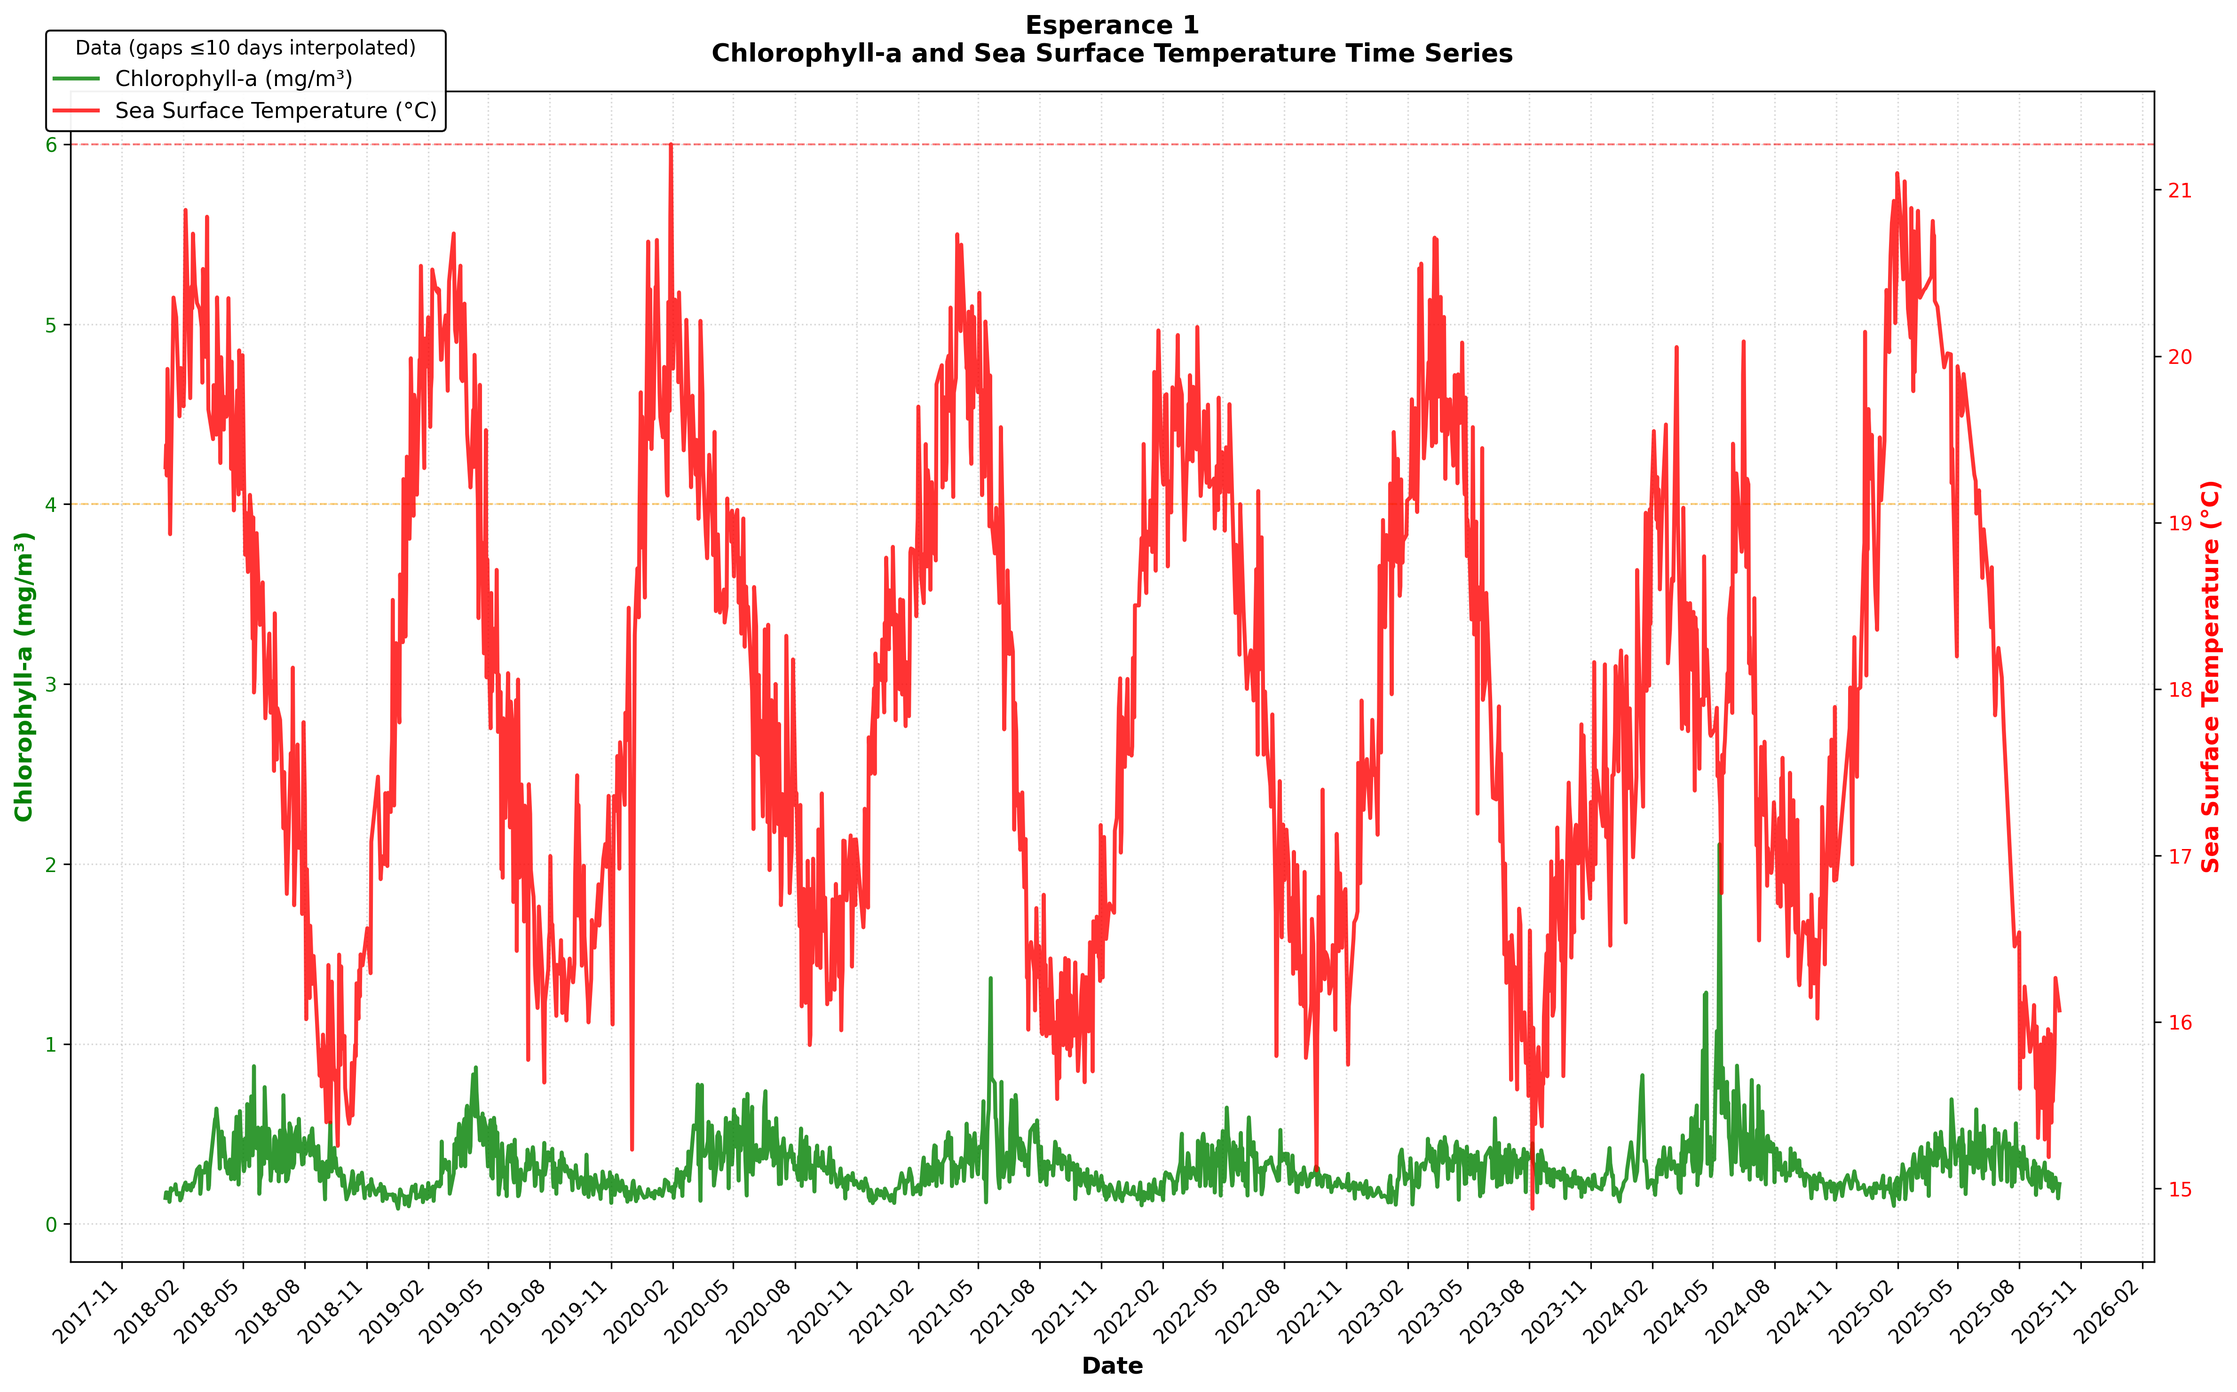
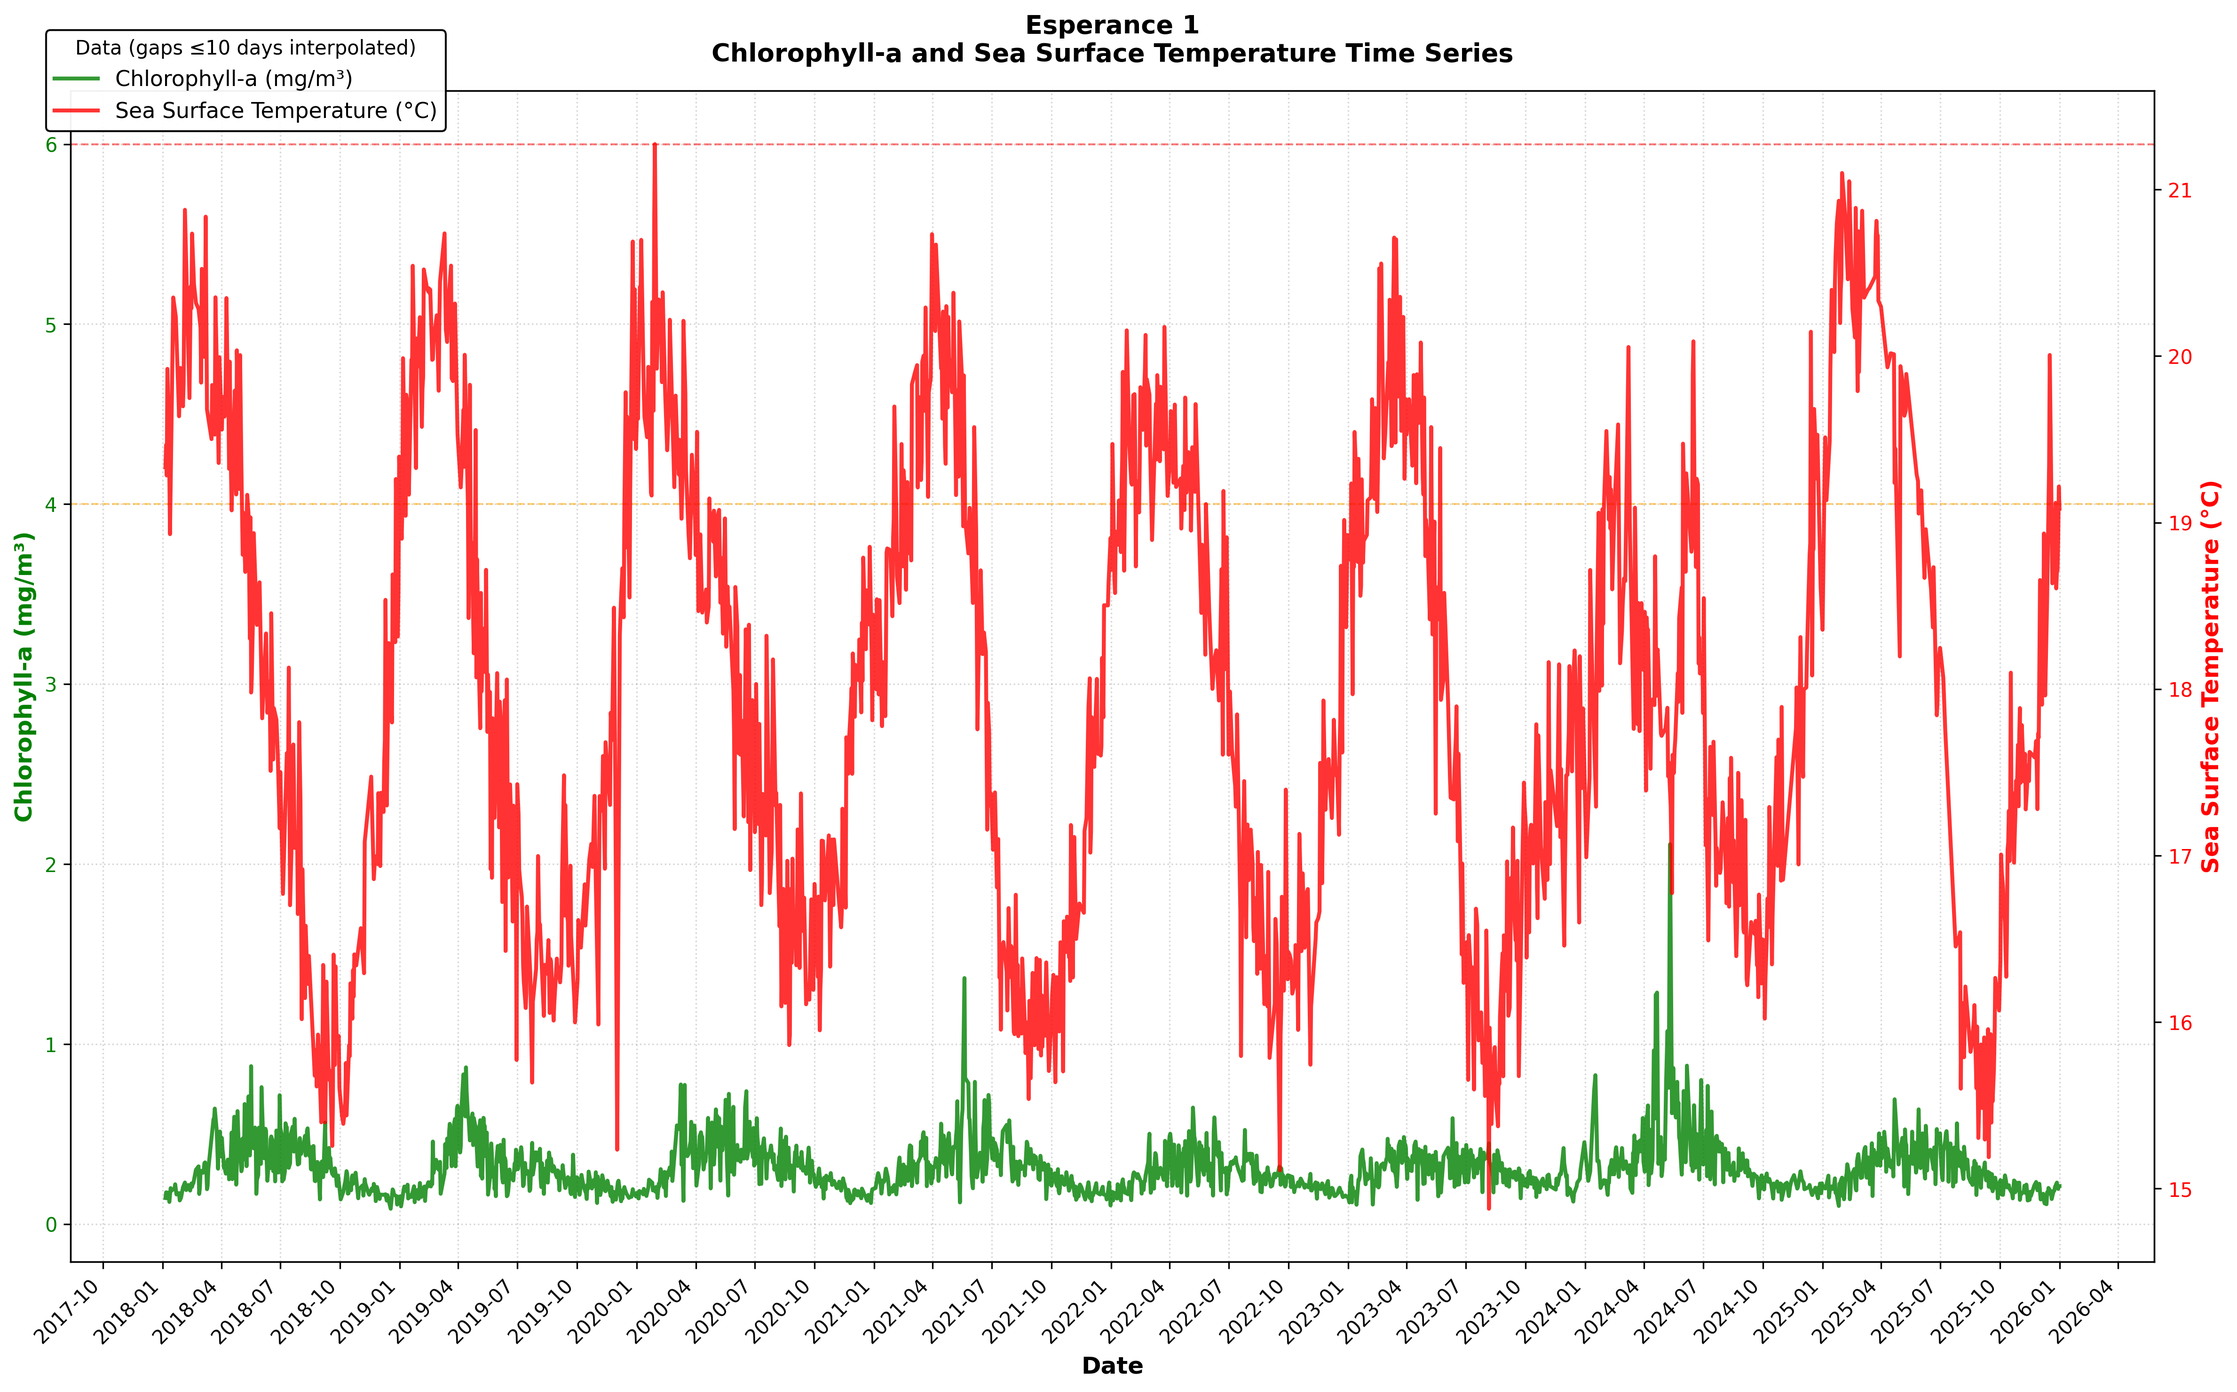
Updates for past 20 days

diff --git a/GAB.md b/GAB.md
@@ -17,10 +17,7 @@
 | 2020       |      0.3057   |      0.374368 |      0.309326 |      0.406663 |  0.515832 |  0.394108 | 0.429601 | 0.454665 |
 | 2021       |      0.300801 |      0.358507 |      0.278044 |      0.337301 |  0.433598 |  0.326163 | 0.340813 | 0.345468 |
 | 2022       |      0.267139 |      0.332516 |      0.268757 |      0.354889 |  0.448399 |  0.329405 | 0.364772 | 0.390943 |
-| 2023Q1     |      0.283376 |      0.357065 |      0.356789 |      0.38942  |  0.368312 |  0.291727 | 0.335039 | 0.338745 |
-| 2023Q2     |      0.323107 |      0.425632 |      0.466927 |      0.559667 |  0.637841 |  0.477615 | 0.553281 | 0.579327 |
-| 2023Q3     |      0.299566 |      0.315199 |      0.255716 |      0.291394 |  0.374764 |  0.30743  | 0.338137 | 0.40793  |
-| 2023Q4     |      0.233971 |      0.279869 |      0.258136 |      0.32517  |  0.371365 |  0.23179  | 0.267383 | 0.296853 |
+| 2023       |      0.287599 |      0.34534  |      0.327493 |      0.384562 |  0.433107 |  0.330418 | 0.371012 | 0.405244 |
 | 2024Q1     |      0.325569 |      0.442363 |      0.263215 |      0.369742 |  0.342068 |  0.267744 | 0.444184 | 0.631265 |
 | 2024Q2     |      0.517243 |      0.47551  |      0.53441  |      0.641269 |  0.710943 |  0.782537 | 1.17761  | 1.7111   |
 | 2024Q3     |      0.327558 |      0.37114  |      0.325901 |      0.388948 |  0.519596 |  0.394554 | 0.429522 | 0.746391 |
@@ -28,7 +25,9 @@
 | 2025Q1     |      0.261775 |      0.343117 |      0.281498 |      0.436463 |  0.528841 |  0.39293  | 0.383236 | 0.410759 |
 | 2025Q2     |      0.380522 |      0.463449 |      0.42758  |      0.538931 |  0.712664 |  0.570472 | 0.580635 | 0.64056  |
 | 2025Q3     |      0.29624  |      0.309776 |      0.296507 |      0.356496 |  0.417379 |  0.337753 | 0.341371 | 0.382981 |
-| Grand Mean |      0.300636 |      0.353154 |      0.309343 |      0.393618 |  0.462297 |  0.359193 | 0.408218 | 0.477942 |
+| 2025Q4     |      0.186172 |      0.206876 |      0.159577 |      0.237124 |  0.319698 |  0.222113 | 0.303169 | 0.274226 |
+| 2026Q1     |      0.193592 |      0.193612 |      0.140273 |      0.257674 |  0.396678 |  0.285289 | 0.398627 | 0.336922 |
+| Grand Mean |      0.286501 |      0.330166 |      0.278438 |      0.373094 |  0.45457  |  0.352602 | 0.410623 | 0.468988 |
 ```
 
 ## VIIRS Pixel Coverage Summary
@@ -53,82 +52,84 @@ Ceduna {'lat_km': 89.05600000000047, 'lon_km': 141.14182091138554, 'area_km2': 1
 - Baseline temperature: 15.0°C
 
 ### Esperance_1:
-  - SST: 17.95°C  |  Trend: -0.0688°C/yr (p=0.0000)
-  - Heating DD/yr: 535.4  |  Cooling DD/yr: 0.0
+  - SST: 17.96°C  |  Trend: -0.0573°C/yr (p=0.0004)
+  - Heating DD/yr: 539.5  |  Cooling DD/yr: 0.0
   - MARINE HEAT WAVES DETECTED: 8 events (73 total days) 90th percentile threshold: 19.88°C
-      - 2018-02-12 to 2018-02-28: 6 days, mean 20.35°C (+0.47°C), max 20.74°C (+0.85°C)
-      - 2018-03-02 to 2018-03-08: 5 days, mean 20.33°C (+0.44°C), max 20.84°C (+0.95°C)
-      - 2019-02-07 to 2019-02-27: 10 days, mean 20.28°C (+0.39°C), max 20.52°C (+0.64°C)
-      - 2019-03-03 to 2019-03-21: 7 days, mean 20.37°C (+0.49°C), max 20.74°C (+0.85°C)
-      - 2020-01-28 to 2020-02-08: 5 days, mean 20.50°C (+0.61°C), max 21.27°C (+1.39°C)
-      - 2021-03-31 to 2021-04-15: 6 days, mean 20.34°C (+0.45°C), max 20.73°C (+0.85°C)
+      - 2018-02-12 to 2018-02-28: 6 days, mean 20.35°C (+0.47°C), max 20.74°C (+0.86°C)
+      - 2018-03-02 to 2018-03-08: 5 days, mean 20.33°C (+0.45°C), max 20.84°C (+0.96°C)
+      - 2019-02-07 to 2019-02-27: 10 days, mean 20.28°C (+0.40°C), max 20.52°C (+0.64°C)
+      - 2019-03-03 to 2019-03-21: 7 days, mean 20.37°C (+0.49°C), max 20.74°C (+0.86°C)
+      - 2020-01-28 to 2020-02-08: 5 days, mean 20.50°C (+0.62°C), max 21.27°C (+1.39°C)
+      - 2021-03-31 to 2021-04-15: 6 days, mean 20.34°C (+0.46°C), max 20.73°C (+0.85°C)
       - 2025-01-13 to 2025-02-21: 19 days, mean 20.50°C (+0.62°C), max 21.10°C (+1.22°C)
       - 2025-02-25 to 2025-04-21: 15 days, mean 20.44°C (+0.56°C), max 20.87°C (+0.99°C)
 
 ### Esperance_2:
-  - SST: 17.71°C  |  Trend: -0.0787°C/yr (p=0.0001)
-  - Heating DD/yr: 519.5  |  Cooling DD/yr: 0.7
-  - MARINE HEAT WAVES DETECTED: 6 events (50 total days) 90th percentile threshold: 20.18°C
-      - 2018-02-06 to 2018-02-19: 9 days, mean 20.97°C (+0.79°C), max 21.82°C (+1.64°C)
-      - 2018-03-02 to 2018-03-10: 6 days, mean 20.59°C (+0.41°C), max 21.05°C (+0.87°C)
-      - 2018-03-18 to 2018-03-27: 5 days, mean 20.77°C (+0.59°C), max 21.36°C (+1.18°C)
-      - 2019-02-21 to 2019-03-16: 12 days, mean 20.74°C (+0.56°C), max 21.52°C (+1.34°C)
-      - 2025-01-29 to 2025-02-15: 10 days, mean 20.80°C (+0.62°C), max 21.67°C (+1.49°C)
-      - 2025-03-02 to 2025-03-29: 8 days, mean 20.84°C (+0.66°C), max 21.26°C (+1.08°C)
+  - SST: 17.73°C  |  Trend: -0.0653°C/yr (p=0.0007)
+  - Heating DD/yr: 524.0  |  Cooling DD/yr: 0.7
+  - MARINE HEAT WAVES DETECTED: 6 events (50 total days) 90th percentile threshold: 20.17°C
+      - 2018-02-06 to 2018-02-19: 9 days, mean 20.97°C (+0.80°C), max 21.82°C (+1.64°C)
+      - 2018-03-02 to 2018-03-10: 6 days, mean 20.59°C (+0.42°C), max 21.05°C (+0.88°C)
+      - 2018-03-18 to 2018-03-27: 5 days, mean 20.77°C (+0.60°C), max 21.36°C (+1.19°C)
+      - 2019-02-21 to 2019-03-16: 12 days, mean 20.74°C (+0.57°C), max 21.52°C (+1.35°C)
+      - 2025-01-29 to 2025-02-15: 10 days, mean 20.80°C (+0.63°C), max 21.67°C (+1.50°C)
+      - 2025-03-02 to 2025-03-29: 8 days, mean 20.84°C (+0.67°C), max 21.26°C (+1.08°C)
 
 ### Esperance_3:
-  - SST: 17.73°C  |  Trend: -0.0795°C/yr (p=0.0004)
-  - Heating DD/yr: 534.8  |  Cooling DD/yr: 1.4
-  - MARINE HEAT WAVES DETECTED: 8 events (66 total days) 90th percentile threshold: 20.60°C
-      - 2018-02-13 to 2018-02-18: 5 days, mean 21.11°C (+0.51°C), max 21.49°C (+0.89°C)
-      - 2018-04-04 to 2018-04-12: 6 days, mean 21.04°C (+0.45°C), max 21.33°C (+0.73°C)
-      - 2019-02-07 to 2019-02-17: 5 days, mean 21.04°C (+0.44°C), max 21.64°C (+1.04°C)
-      - 2019-02-21 to 2019-03-20: 12 days, mean 21.29°C (+0.69°C), max 21.75°C (+1.16°C)
-      - 2019-04-07 to 2019-04-13: 5 days, mean 20.87°C (+0.27°C), max 21.06°C (+0.46°C)
-      - 2020-02-04 to 2020-02-15: 7 days, mean 20.95°C (+0.35°C), max 21.39°C (+0.79°C)
-      - 2025-01-21 to 2025-02-22: 14 days, mean 21.64°C (+1.04°C), max 22.46°C (+1.86°C)
-      - 2025-02-25 to 2025-04-11: 12 days, mean 21.22°C (+0.62°C), max 21.69°C (+1.10°C)
+  - SST: 17.74°C  |  Trend: -0.0673°C/yr (p=0.0021)
+  - Heating DD/yr: 537.8  |  Cooling DD/yr: 1.4
+  - MARINE HEAT WAVES DETECTED: 9 events (73 total days) 90th percentile threshold: 20.58°C
+      - 2018-02-13 to 2018-02-18: 5 days, mean 21.11°C (+0.53°C), max 21.49°C (+0.90°C)
+      - 2018-03-07 to 2018-03-27: 7 days, mean 21.04°C (+0.45°C), max 21.37°C (+0.78°C)
+      - 2018-04-04 to 2018-04-12: 6 days, mean 21.04°C (+0.46°C), max 21.33°C (+0.75°C)
+      - 2019-02-07 to 2019-02-17: 5 days, mean 21.04°C (+0.45°C), max 21.64°C (+1.05°C)
+      - 2019-02-21 to 2019-03-20: 12 days, mean 21.29°C (+0.70°C), max 21.75°C (+1.17°C)
+      - 2019-04-07 to 2019-04-13: 5 days, mean 20.87°C (+0.28°C), max 21.06°C (+0.47°C)
+      - 2020-02-04 to 2020-02-15: 7 days, mean 20.95°C (+0.36°C), max 21.39°C (+0.80°C)
+      - 2025-01-21 to 2025-02-22: 14 days, mean 21.64°C (+1.06°C), max 22.46°C (+1.88°C)
+      - 2025-02-25 to 2025-04-11: 12 days, mean 21.22°C (+0.64°C), max 21.69°C (+1.11°C)
 
 ### Mundrabilla:
-  - SST: 17.77°C  |  Trend: -0.0782°C/yr (p=0.0016)
-  - Heating DD/yr: 533.8  |  Cooling DD/yr: 3.9
-  - MARINE HEAT WAVES DETECTED: 6 events (67 total days) 90th percentile threshold: 20.83°C
-      - 2018-02-13 to 2018-02-28: 6 days, mean 21.21°C (+0.38°C), max 21.45°C (+0.62°C)
-      - 2019-01-21 to 2019-03-03: 21 days, mean 21.45°C (+0.62°C), max 22.25°C (+1.42°C)
-      - 2019-03-05 to 2019-03-20: 6 days, mean 21.52°C (+0.69°C), max 22.18°C (+1.35°C)
-      - 2020-01-26 to 2020-01-31: 5 days, mean 21.72°C (+0.89°C), max 22.20°C (+1.37°C)
+  - SST: 17.78°C  |  Trend: -0.0656°C/yr (p=0.0073)
+  - Heating DD/yr: 535.8  |  Cooling DD/yr: 3.9
+  - MARINE HEAT WAVES DETECTED: 6 events (68 total days) 90th percentile threshold: 20.82°C
+      - 2018-02-13 to 2018-02-28: 6 days, mean 21.21°C (+0.38°C), max 21.45°C (+0.63°C)
+      - 2019-01-21 to 2019-03-03: 21 days, mean 21.45°C (+0.62°C), max 22.25°C (+1.43°C)
+      - 2019-03-05 to 2019-03-20: 6 days, mean 21.52°C (+0.69°C), max 22.18°C (+1.36°C)
+      - 2020-01-26 to 2020-02-02: 6 days, mean 21.57°C (+0.75°C), max 22.20°C (+1.38°C)
       - 2025-01-10 to 2025-02-11: 16 days, mean 21.93°C (+1.10°C), max 22.96°C (+2.13°C)
       - 2025-02-25 to 2025-04-02: 13 days, mean 21.41°C (+0.58°C), max 22.01°C (+1.18°C)
 
 ### Eucla_1:
-  - SST: 17.68°C  |  Trend: -0.1317°C/yr (p=0.0000)
-  - Heating DD/yr: 497.5  |  Cooling DD/yr: 10.1
-  - MARINE HEAT WAVES DETECTED: 6 events (69 total days) 90th percentile threshold: 21.00°C
+  - SST: 17.70°C  |  Trend: -0.1153°C/yr (p=0.0000)
+  - Heating DD/yr: 500.3  |  Cooling DD/yr: 10.0
+  - MARINE HEAT WAVES DETECTED: 7 events (75 total days) 90th percentile threshold: 21.00°C
       - 2018-02-07 to 2018-02-28: 8 days, mean 21.54°C (+0.55°C), max 22.14°C (+1.14°C)
       - 2019-01-26 to 2019-03-20: 26 days, mean 21.76°C (+0.76°C), max 22.68°C (+1.68°C)
-      - 2020-01-26 to 2020-01-31: 5 days, mean 21.72°C (+0.72°C), max 22.01°C (+1.02°C)
-      - 2023-03-15 to 2023-03-28: 6 days, mean 21.43°C (+0.43°C), max 22.10°C (+1.10°C)
+      - 2020-01-26 to 2020-01-31: 5 days, mean 21.72°C (+0.73°C), max 22.01°C (+1.02°C)
+      - 2023-02-19 to 2023-03-04: 6 days, mean 21.53°C (+0.53°C), max 22.24°C (+1.25°C)
+      - 2023-03-15 to 2023-03-28: 6 days, mean 21.43°C (+0.44°C), max 22.10°C (+1.11°C)
       - 2025-01-09 to 2025-02-17: 18 days, mean 21.98°C (+0.98°C), max 23.88°C (+2.88°C)
       - 2025-02-26 to 2025-03-26: 6 days, mean 21.55°C (+0.55°C), max 22.05°C (+1.06°C)
 
 ### Eucla_2:
-  - SST: 17.67°C  |  Trend: -0.1447°C/yr (p=0.0000)
-  - Heating DD/yr: 537.7  |  Cooling DD/yr: 5.9
+  - SST: 17.68°C  |  Trend: -0.1271°C/yr (p=0.0000)
+  - Heating DD/yr: 541.8  |  Cooling DD/yr: 5.9
   - MARINE HEAT WAVES DETECTED: 5 events (74 total days) 90th percentile threshold: 20.55°C
-      - 2018-02-05 to 2018-03-01: 11 days, mean 21.23°C (+0.68°C), max 22.00°C (+1.44°C)
-      - 2019-01-27 to 2019-03-14: 25 days, mean 21.31°C (+0.76°C), max 22.30°C (+1.74°C)
-      - 2020-01-26 to 2020-02-10: 10 days, mean 21.18°C (+0.62°C), max 21.81°C (+1.25°C)
-      - 2025-01-06 to 2025-02-14: 23 days, mean 21.19°C (+0.63°C), max 22.20°C (+1.64°C)
-      - 2025-02-26 to 2025-03-23: 5 days, mean 21.02°C (+0.47°C), max 21.40°C (+0.84°C)
+      - 2018-02-05 to 2018-03-01: 11 days, mean 21.23°C (+0.68°C), max 22.00°C (+1.45°C)
+      - 2019-01-27 to 2019-03-14: 25 days, mean 21.31°C (+0.76°C), max 22.30°C (+1.75°C)
+      - 2020-01-26 to 2020-02-10: 10 days, mean 21.18°C (+0.63°C), max 21.81°C (+1.26°C)
+      - 2025-01-06 to 2025-02-14: 23 days, mean 21.19°C (+0.64°C), max 22.20°C (+1.65°C)
+      - 2025-02-26 to 2025-03-23: 5 days, mean 21.02°C (+0.47°C), max 21.40°C (+0.85°C)
 
 ### Yalata:
-  - SST: 17.46°C  |  Trend: -0.1462°C/yr (p=0.0000)
-  - Heating DD/yr: 494.2  |  Cooling DD/yr: 6.2
-  - MARINE HEAT WAVES DETECTED: 10 events (92 total days) 90th percentile threshold: 19.99°C
+  - SST: 17.48°C  |  Trend: -0.1254°C/yr (p=0.0000)
+  - Heating DD/yr: 499.2  |  Cooling DD/yr: 6.1
+  - MARINE HEAT WAVES DETECTED: 10 events (92 total days) 90th percentile threshold: 20.00°C
       - 2018-01-17 to 2018-01-28: 7 days, mean 21.57°C (+1.58°C), max 24.13°C (+4.14°C)
       - 2018-02-05 to 2018-02-27: 11 days, mean 20.70°C (+0.71°C), max 21.44°C (+1.44°C)
       - 2018-04-18 to 2018-04-24: 5 days, mean 20.39°C (+0.40°C), max 20.81°C (+0.82°C)
-      - 2019-02-07 to 2019-03-10: 19 days, mean 20.84°C (+0.85°C), max 21.63°C (+1.64°C)
+      - 2019-02-07 to 2019-03-10: 19 days, mean 20.84°C (+0.84°C), max 21.63°C (+1.64°C)
       - 2019-03-16 to 2019-03-21: 5 days, mean 20.37°C (+0.38°C), max 21.18°C (+1.18°C)
       - 2019-12-28 to 2020-01-05: 7 days, mean 20.60°C (+0.61°C), max 21.09°C (+1.09°C)
       - 2020-01-29 to 2020-02-17: 11 days, mean 20.74°C (+0.74°C), max 21.36°C (+1.37°C)
@@ -137,20 +138,20 @@ Ceduna {'lat_km': 89.05600000000047, 'lon_km': 141.14182091138554, 'area_km2': 1
       - 2025-01-16 to 2025-02-07: 16 days, mean 20.78°C (+0.79°C), max 21.70°C (+1.71°C)
 
 ### Ceduna:
-  - SST: 17.25°C  |  Trend: -0.1291°C/yr (p=0.0000)
-  - Heating DD/yr: 463.8  |  Cooling DD/yr: 6.6
-  - MARINE HEAT WAVES DETECTED: 10 events (84 total days) 90th percentile threshold: 19.68°C
-      - 2018-01-15 to 2018-01-25: 6 days, mean 20.78°C (+1.10°C), max 21.81°C (+2.14°C)
-      - 2018-02-05 to 2018-02-17: 7 days, mean 20.17°C (+0.50°C), max 21.21°C (+1.53°C)
-      - 2018-04-18 to 2018-04-24: 5 days, mean 20.15°C (+0.48°C), max 20.33°C (+0.66°C)
-      - 2019-01-27 to 2019-02-03: 6 days, mean 20.43°C (+0.75°C), max 21.22°C (+1.54°C)
-      - 2019-02-14 to 2019-03-04: 12 days, mean 20.68°C (+1.01°C), max 21.57°C (+1.90°C)
-      - 2019-12-17 to 2019-12-24: 5 days, mean 20.51°C (+0.83°C), max 21.46°C (+1.78°C)
-      - 2019-12-27 to 2020-01-08: 9 days, mean 20.38°C (+0.70°C), max 21.44°C (+1.77°C)
-      - 2020-02-05 to 2020-02-12: 5 days, mean 20.51°C (+0.83°C), max 21.13°C (+1.46°C)
-      - 2023-02-18 to 2023-02-25: 7 days, mean 20.39°C (+0.72°C), max 21.08°C (+1.41°C)
-      - 2025-01-09 to 2025-02-12: 22 days, mean 20.35°C (+0.67°C), max 21.55°C (+1.88°C)
+  - SST: 17.27°C  |  Trend: -0.1080°C/yr (p=0.0000)
+  - Heating DD/yr: 468.4  |  Cooling DD/yr: 6.5
+  - MARINE HEAT WAVES DETECTED: 10 events (83 total days) 90th percentile threshold: 19.69°C
+      - 2018-01-15 to 2018-01-25: 6 days, mean 20.78°C (+1.09°C), max 21.81°C (+2.13°C)
+      - 2018-02-08 to 2018-02-17: 6 days, mean 20.26°C (+0.57°C), max 21.21°C (+1.52°C)
+      - 2018-04-18 to 2018-04-24: 5 days, mean 20.15°C (+0.47°C), max 20.33°C (+0.65°C)
+      - 2019-01-27 to 2019-02-03: 6 days, mean 20.43°C (+0.74°C), max 21.22°C (+1.53°C)
+      - 2019-02-14 to 2019-03-04: 12 days, mean 20.68°C (+1.00°C), max 21.57°C (+1.89°C)
+      - 2019-12-17 to 2019-12-24: 5 days, mean 20.51°C (+0.82°C), max 21.46°C (+1.77°C)
+      - 2019-12-27 to 2020-01-08: 9 days, mean 20.38°C (+0.69°C), max 21.44°C (+1.76°C)
+      - 2020-02-05 to 2020-02-12: 5 days, mean 20.51°C (+0.82°C), max 21.13°C (+1.45°C)
+      - 2023-02-18 to 2023-02-25: 7 days, mean 20.39°C (+0.71°C), max 21.08°C (+1.40°C)
+      - 2025-01-09 to 2025-02-12: 22 days, mean 20.35°C (+0.66°C), max 21.55°C (+1.87°C)
 
 ---
 
-Last updated: Wed 31 Dec 2025 19:14:14 ACDT
+Last updated: Fri 13 Mar 2026 08:32:55 ACDT
